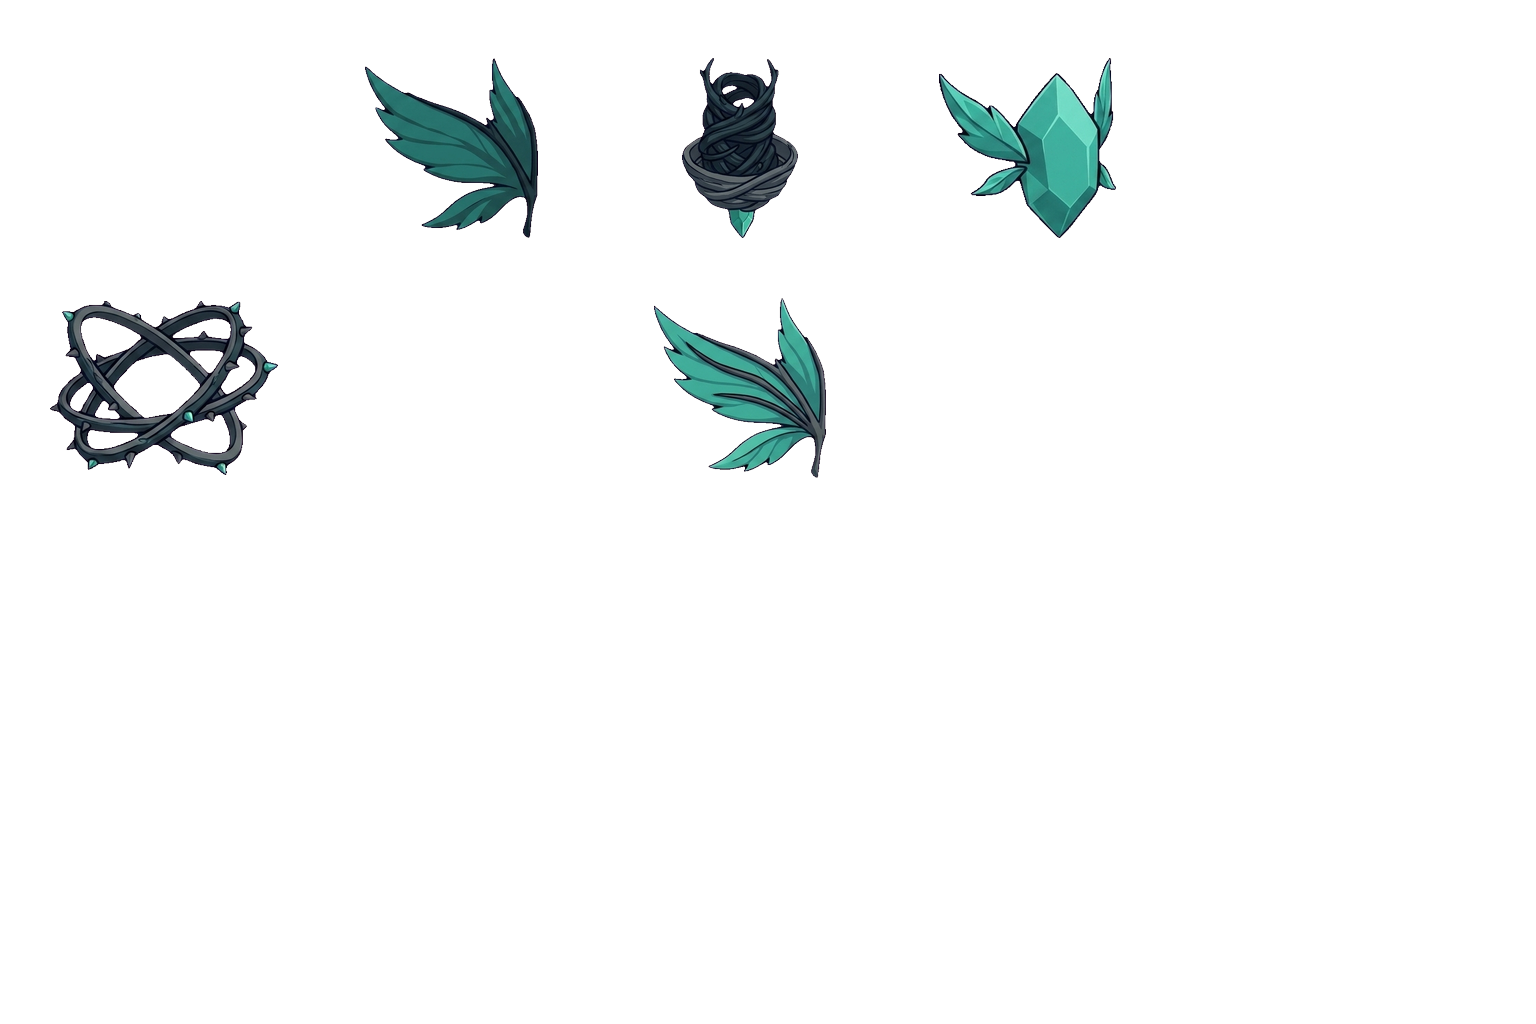
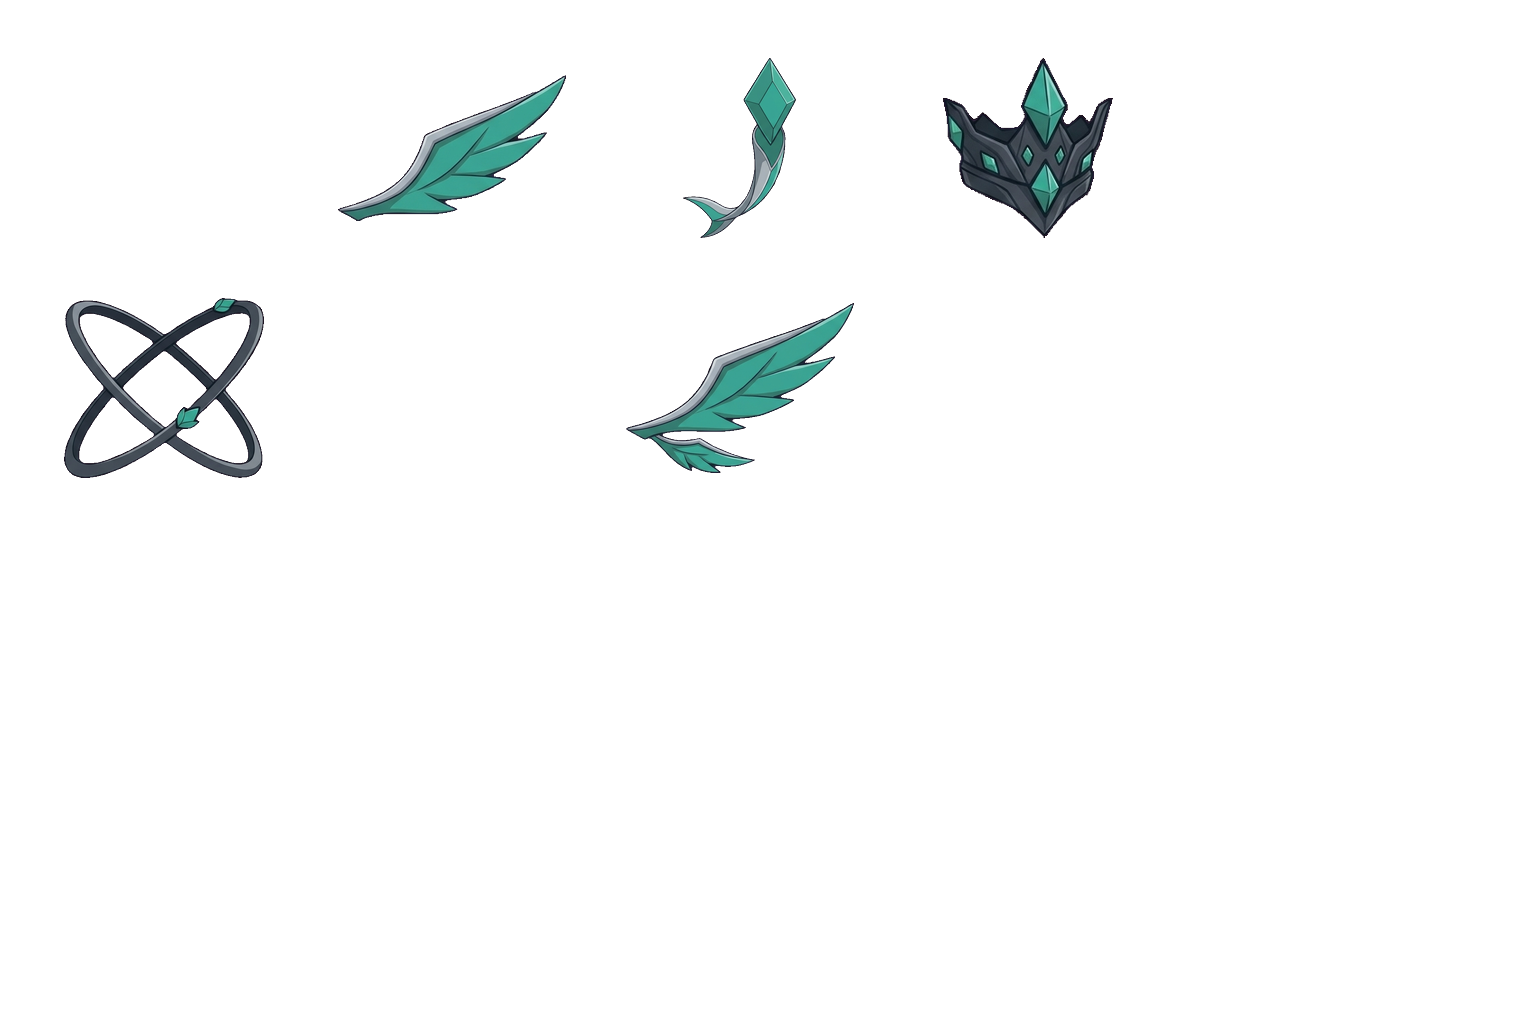
R6 G4 숲 엘프 비평 재작화 2개체(special-t3·special-t4) 반영

diff --git a/asset-source/r6/monsters/elf/STATUS.md b/asset-source/r6/monsters/elf/STATUS.md
@@ -31,3 +31,9 @@
 ## 남은 목록
 
 - 없음 (20/20 완료).
+
+## G4 비평 검수 재작화 (`docs/renewal/r6/review/G4-monsters-critique.md` 10항)
+
+- `special/T3` (비평 10항 필수): 번잡한 가는 선 뭉치를 제거하고 R04 2중 기하학 바람 고리(`armor`)·다면체 틸 숲핵(`body`)·결정 관(`head`)·잎날개 2쌍으로 재작화 (`cut_parts` `issues=0` · 5/5 슬롯, T1 관절 기준 모의 `fit_parts` IoU `0.760`, 지형/길 대비 `2.341/1.570`, 흰색·마젠타 잔여 `0/0`).
+- `special/T4` (비평 10항 선택): 흰 점 눈 가면·엉킨 선을 제거하고 3겹 고목 왕관 틀(`armor`)·대형 다면체 숲핵(`body`)·결정 관(`head`)·잎날개 2쌍으로 재작화 (`cut_parts` `issues=0` · 5/5 슬롯, T1 관절 기준 모의 `fit_parts` IoU `0.772`, 지형/길 대비 `2.092/1.509`, 흰색·마젠타 잔여 `0/0`).
+- `docs/renewal/r6/bible/sheets/monsters-elf-parts-all.webp` 갱신 완료.
